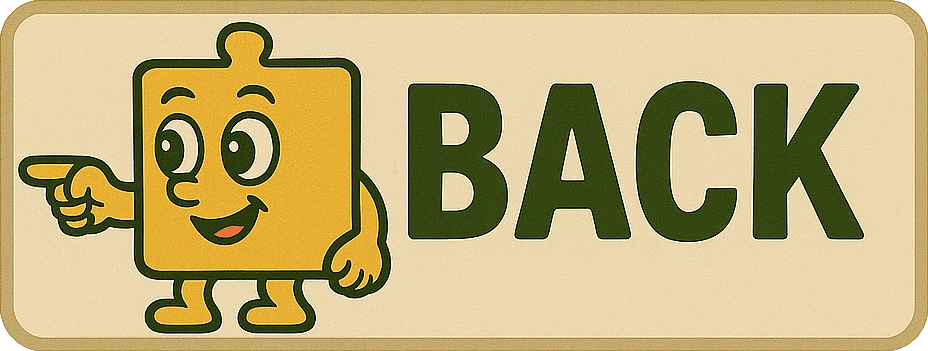
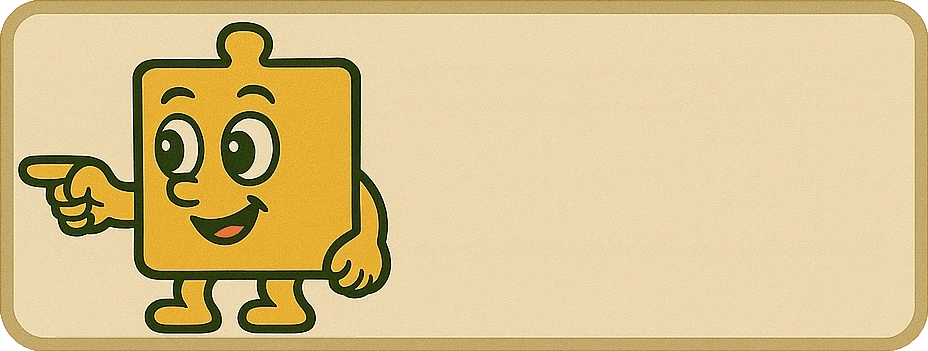
GAME PAUSED dialog prepared.

Changed region(s): [[0.4375, 0.2279, 0.9375, 0.7123]]

diff --git a/src/gui/NavigationManager.ts b/src/gui/NavigationManager.ts
@@ -1,0 +1,111 @@
+import { Control } from "@babylonjs/gui";
+import { FormRowModel } from "../model/FormRowModel";
+import popupHint, { PopupMode } from "./PopupHint";
+import { ShaderMode } from "./ScreenShader";
+import backToInitialAnimation from "../core3d/animations/BackToInitialAnimation";
+import ctx from "../core3d/common/SceneContext";
+import gameModeManager from "../core3d/behaviors/GameModeManager";
+
+class NavigationManager {
+    public handleXAction() {
+        this.enterGamePaused(false);
+    }
+
+    private enterGamePaused(puzzleFinished: boolean) {
+        const formModel: FormRowModel[] = [];
+
+        if (!puzzleFinished) {
+            formModel.push({
+                id: "continue",
+                label: "Resume solving from this exact spot:",
+                type: "button",
+                buttonText: "▶ Continue",
+                background: "#27ae60",    // green
+                color: "#ffffff",     // white text for contrast
+                action: () => {
+                    this.continue();
+                }
+            });
+        }
+
+        formModel.push(
+            {
+                id: "restart",
+                label: puzzleFinished
+                    ? "Relive the fun — restart this puzzle from the beginning:"
+                    : "Shuffle the pieces and start over:",
+                type: "button",
+                buttonText: "🔄 Restart",
+                background: "#d35400",   // orange
+                color: "#ffffff",    // white text
+                action: () => {
+                    this.restartPuzzle();
+                }
+            },
+            {
+                id: "mainMenu",
+                label: "Return to the puzzle gallery:",
+                type: "button",
+                buttonText: "🏠 Main menu",
+                background: "#bdc3c7",   // light gray
+                color: "#2c3e50",    // dark navy text
+                action: () => {
+                    this.goBack();
+                }
+            }
+        );
+
+        const title = puzzleFinished ? "PUZZLE SOLVED!" : "GAME PAUSED";
+
+        const message = puzzleFinished
+            ? `Congratulations!
+            
+You’ve completed this puzzle.
+
+What’s next?
+
+You can restart it for fun, return to the main menu, or use the PREV and NEXT buttons below to switch puzzles.`
+            : `Your puzzle is on hold.
+            
+What’s next?
+
+You can continue right where you left off, restart from the beginning, return to the main menu, or use the PREV and NEXT buttons below to switch puzzles.`;
+
+        popupHint.show(
+            message,
+            title,
+            0.9,
+            ShaderMode.SHADOW_FULL,
+            Control.VERTICAL_ALIGNMENT_CENTER,
+            () => { this.nextPuzzle(); }, // FOOTER: NEXT
+            () => { this.continue(); }, // X button → continue
+            () => { this.prevPuzzle(); }, // FOOTER: PREV
+            null,
+            PopupMode.GamePaused,
+            formModel
+        );
+    }
+
+    private prevPuzzle() {
+        // TODO
+    }
+
+    private nextPuzzle() {
+        // TODO
+    }
+
+    private continue() {
+        popupHint.hide();
+    }
+
+    private restartPuzzle() {
+        // TODO
+    }
+
+    private goBack() {
+        backToInitialAnimation.animate(ctx.currentCover);
+    }
+}
+
+const navigationManager = new NavigationManager();
+export default navigationManager;

diff --git a/src/gui/PopupHint.ts b/src/gui/PopupHint.ts
@@ -23,7 +23,8 @@ export enum PopupMode {
     Gift_Adjustments_Preview,
     Gift_Adjustments_Overview,
     Gift_Physical_Initial,
-    Gift_Physical_Final
+    Gift_Physical_Final,
+    GamePaused
 }
 
 class PopupHint {
@@ -276,7 +277,7 @@ class PopupHint {
 
         this.bottomRect.addControl(this.getItButton);
 
-        this.backButton = Button.CreateImageOnlyButton("backButton", "assets/buttons/back-button-small.webp");
+        this.backButton = Button.CreateImageWithCenterTextButton("backButton", "BACK", "assets/buttons/back-button-small.webp");
         this.backButton.thickness = 0;
         this.backButton.background = "";
         this.backButton.hoverCursor = "pointer";
@@ -286,6 +287,11 @@ class PopupHint {
         this.backButton.isHitTestVisible = true;
         this.backButton.isPointerBlocker = true;
         this.backButton.horizontalAlignment = Control.HORIZONTAL_ALIGNMENT_LEFT;
+
+        this.backButton.textBlock!.textHorizontalAlignment = Control.HORIZONTAL_ALIGNMENT_RIGHT;
+        this.backButton.textBlock!.paddingRight = "15%"; // push text right
+        this.backButton.textBlock!.color = "#344612";
+        this.backButton.textBlock!.fontWeight = "bold";
 
         this.backButton.onPointerClickObservable.add(() => {
             if (this._backAction) {
@@ -420,7 +426,7 @@ class PopupHint {
                 const button = Button.CreateSimpleButton(formRowModel.id, formRowModel.buttonText);
                 button.width = "50%";
                 button.background = formRowModel.background; // 👈 a standout green (or choose your brand color)
-                button.color = "#ffffff"; // 👈 white text for contrast
+                button.color = formRowModel.color ?? "#ffffff"; // 👈 white text for contrast
                 button.fontWeight = "bold";
                 button.cornerRadius = 12;
                 button.thickness = 2;
@@ -670,6 +676,7 @@ class PopupHint {
         this.xButton.paddingRightInPixels = minSize / 240;
 
         this.emptyGreenButton.textBlock!.fontSizeInPixels = minSize / 24;
+        this.backButton.textBlock!.fontSizeInPixels = minSize / 20;
 
         if (this.formPanelRect.isVisible) {
             const middleTopPanelRatio = 0.99 - 0.16 * this.formPanel.children.length;
@@ -795,6 +802,7 @@ class PopupHint {
         this.formPanelRect.background = "#FFFFFF00"
         this.formPanelRect.width = "100%";
         this._shaderMode = shaderMode;
+        this.backButton.textBlock!.text = "BACK";
 
         switch (mode) {
             case PopupMode.PreSell:
@@ -846,6 +854,15 @@ class PopupHint {
                 this.formPanelRect.alpha = 0.8;
                 this.formPanelRect.background = "#F9F6F1FF";
                 this.formPanelRect.width = "97%";
+                break;
+            case PopupMode.GamePaused:
+                this.nextButton.isVisible = true;
+                this.coverImage.isVisible = true;
+                this.textAreaRect.alpha = 0.8;
+                this.formPanelRect.alpha = 0.8;
+                this.formPanelRect.background = "#F9F6F1FF";
+                this.formPanelRect.width = "97%";
+                this.backButton.textBlock!.text = "PREV";
                 break;
         }
 

diff --git a/src/gui/GuiManager.ts b/src/gui/GuiManager.ts
@@ -12,6 +12,7 @@ import { Dropdown } from "./dropdowns/Dropdown";
 import CategoryDropdownBuilder from "./dropdowns/CategoryDropdownBuilder";
 import PiecesCountDropdownBuilder from "./dropdowns/PiecesCountDropdownBuilder";
 import urlDecoder from "../common/UrlDecoder";
+import navigationManager from "./NavigationManager";
 
 class GuiManager {
     private _advancedTexture!: AdvancedDynamicTexture;
@@ -104,7 +105,8 @@ class GuiManager {
         gameModeManager.addGameModeChangedObserver((prevMode) => {
             switch (prevMode) {
                 case GameMode.Initial:
-                    this._xAction = () => { backToInitialAnimation.animate(ctx.currentCover); };
+                    //this._xAction = () => { backToInitialAnimation.animate(ctx.currentCover); };
+                    this._xAction = () => { navigationManager.handleXAction(); };
                     break;
                 case GameMode.GiftTry:
                     this._xAction = () => { backToInitialAnimation.animate(ctx.currentCover, () => { gameModeManager.enterGiftOverviewMode(); }); };
